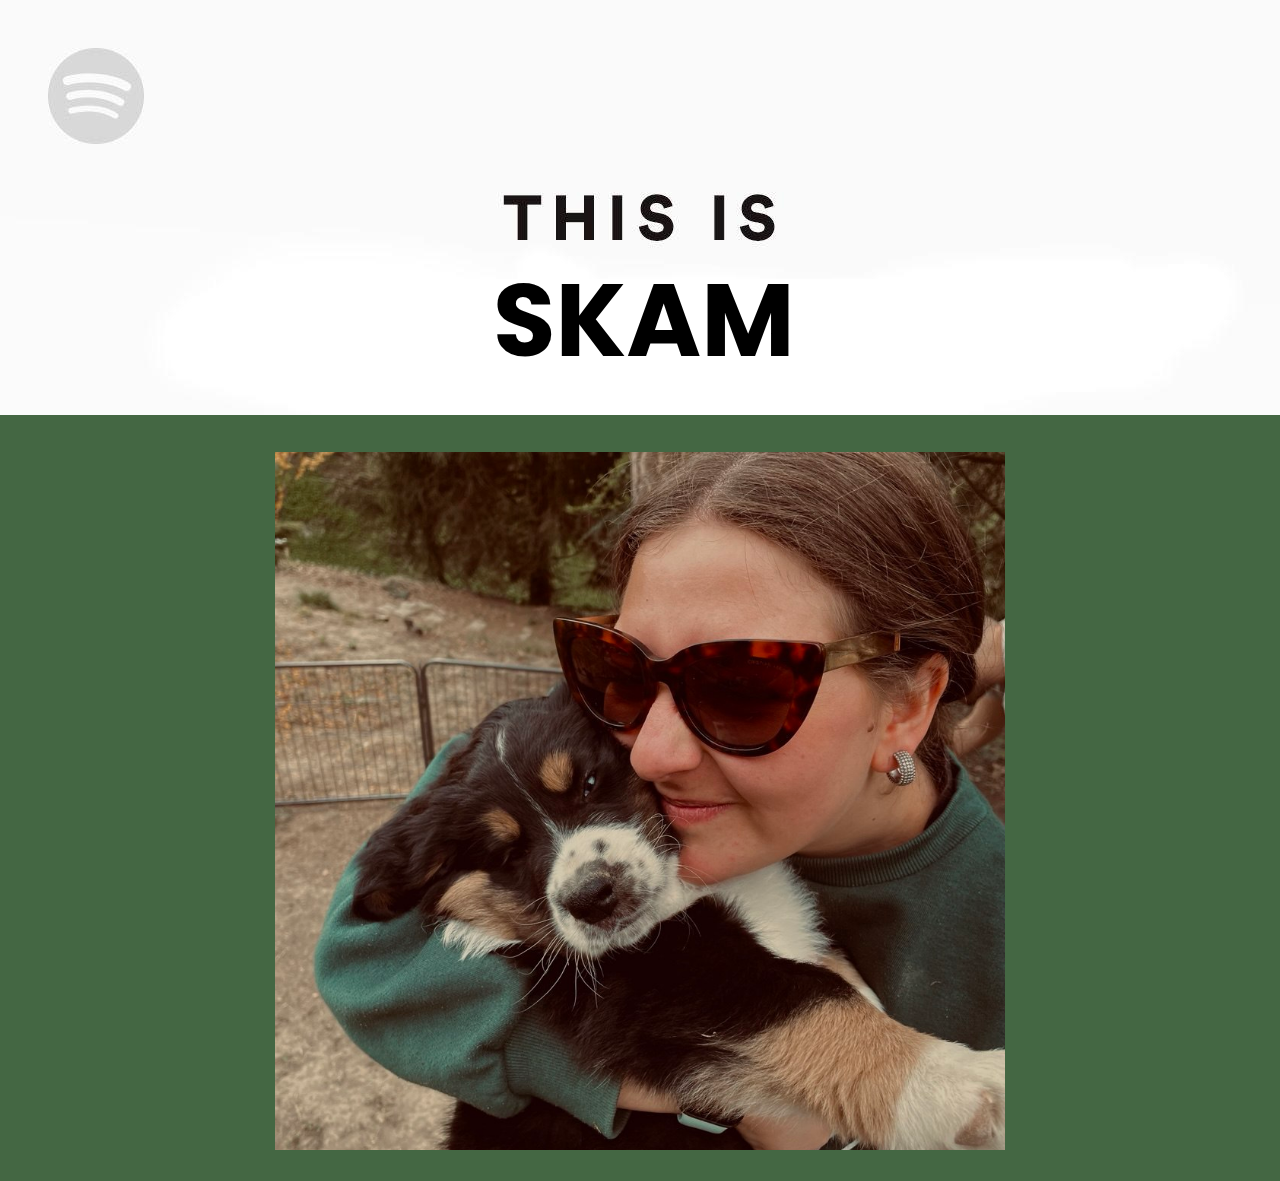
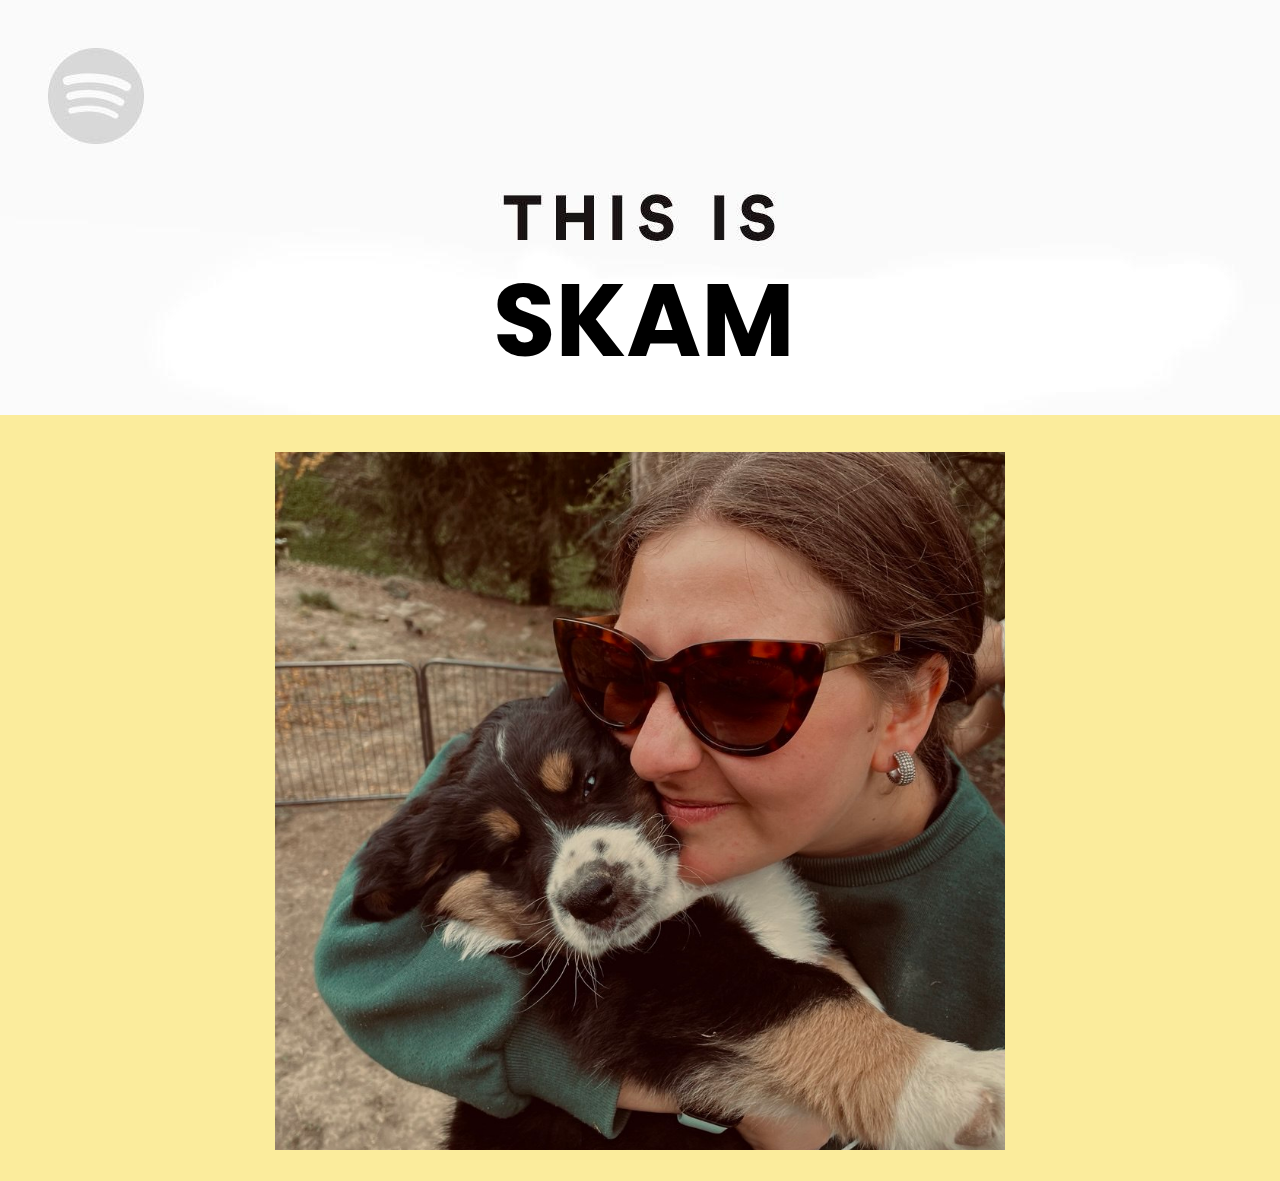
feat: changed This is SKAM color

diff --git a/src/assets/assets.js b/src/assets/assets.js
@@ -471,7 +471,7 @@ export const albumsData = [
     name: "This is Salvo",
     image: salvo_thumb,
     desc: "Your weekly update of the most played tracks",
-    bgColor: "#800020",
+    bgColor: "#970a44",
   },
   {
     id: 1,
@@ -534,7 +534,7 @@ export const albumsData = [
     name: "This is SKAM",
     image: cami_thumb,
     desc: "Your weekly update of the most played tracks",
-    bgColor: "#446743",
+    bgColor: "#fbec9c",
   },
   {
     id: 10,

diff --git a/README.md b/README.md
@@ -69,7 +69,7 @@
 10. Snowman – Sia ✔  
 11. GREVE (feat. MadMan) – Bloody Vinyl, Slait, thasup, MadMan ✔
 
-##  Cami - This is SKAM (verde bosco: #446743) ✔
+##  Cami - This is SKAM (giallo chiaro: #fbec9c) ✔
 
 1.  feelslikeimfallinginlove - Coldplay ✔
 2.  mi ami o è fake ✔
